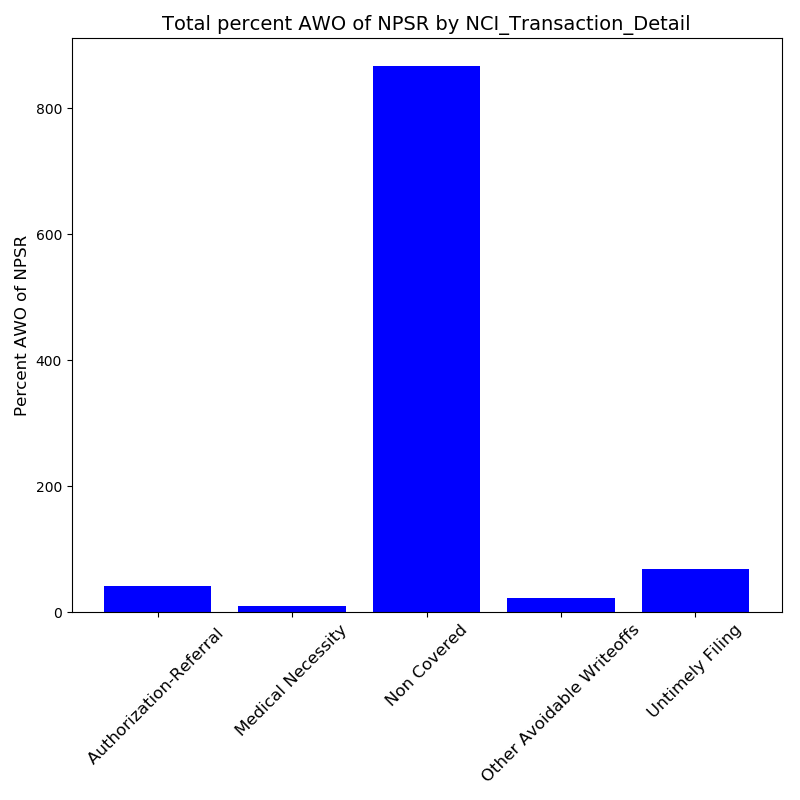
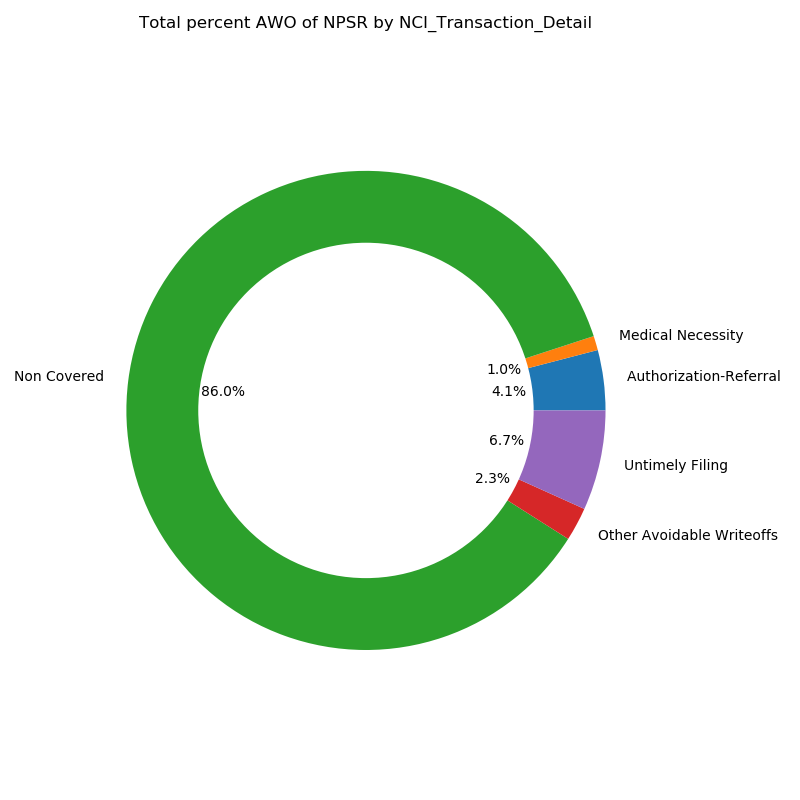
eda imgs

diff --git a/src/chris_eda.py b/src/chris_eda.py
@@ -21,8 +21,49 @@ def plot_agg_grouped(df, group_col, target_col, aggregate_func, y_label, title, 
         plt.show()
         plt.close()
 
-def plot_double_grouped():
-    pass
+def plot_agg_pie(df, group_col, target_col, aggregate_func, y_label, title, save_fig=None):
+    fig, ax = plt.subplots()
+    grouped = df.groupby(group_col).aggregate({target_col : aggregate_func})
+    x_range = list(range(0, grouped.shape[0]))
+    x_labels = grouped.index.tolist()
+    y_vals = grouped.values.reshape(1,-1)[0]
+    ax.pie(y_vals, radius=1, labels=x_labels, autopct='%1.1f%%')
+    center_circle = plt.Circle((0,0),0.70,fc='white')
+    fig = plt.gcf()
+    fig.gca().add_artist(center_circle)
+    ax.axis('equal')
+    ax.set_title(title)
+    plt.tight_layout()
+    if save_fig:
+        file_name = title.replace(' ', '_') + '.png'
+        plt.savefig(save_fig_path.format(file_name))
+    else:
+        plt.show()
+        plt.close()
+
+def pie_2(df, group_col, target_col, aggregate_func, y_label, title, save_fig=None):
+    grouped = df.groupby(group_col).aggregate({target_col : aggregate_func})
+    x_range = list(range(0, grouped.shape[0]))
+    x_labels = grouped.index.tolist()
+    y_vals = grouped.values.reshape(1,-1)[0]
+    fig, axs = plt.subplots(1,2, figsize=(9,5))
+    axs = axs.ravel()
+    for i in range(2):
+        axs[i].pie(y_vals, radius=1, labels=x_labels, autopct='%1.1f%%')
+        center_circle = plt.Circle((0,0),0.70,fc='white')
+        # fig = plt.gcf()
+        fig.gca().add_artist(center_circle)
+        # axs[i].add_artist(plt.Circle((0,0),0.70,fc='white'))
+        axs[i].axis('equal')
+        axs[i].set_title(title)
+        plt.tight_layout()
+    if save_fig:
+        file_name = title.replace(' ', '_') + '.png'
+        plt.savefig(save_fig_path.format(file_name))
+    else:
+        plt.show()
+        plt.close()
+
 
 if __name__=='__main__':
 
@@ -43,7 +84,23 @@ if __name__=='__main__':
 
     # df_full = pd.read_csv('../../navigant_data/final_df_cl_edit.csv')
 
-    # plot_agg_grouped(df, 'Service_Code', 'account_id.1', 'sum')
-    # plot_agg_grouped(df, 'NCI_Transaction_Detail', 'account_id.1', 'sum')
-    # plot_agg_grouped(df, 'Service_Code', 'target_percentage', 'sum', 'Percent AWO of NPSR', 'Total AWO/NPSR percent by Service Code')
-    plot_agg_grouped(df, 'NCI_Transaction_Detail', 'target_percentage', 'sum', 'Percent AWO of NPSR', 'Total percent AWO of NPSR by NCI_Transaction_Detail', save_fig=True)
+    plot_agg_pie(df, 'Service_Code', 'target_percentage', 'sum', 'Percent AWO of NPSR', 'Total percent AWO of NPSR by Service Code', save_fig=True)
+    plot_agg_pie(df, 'NCI_Transaction_Detail', 'target_percentage', 'sum', 'Percent AWO of NPSR', 'Total percent AWO of NPSR by NCI_Transaction_Detail', save_fig=True)
+
+    plot_agg_pie(loc_1, 'Service_Code', 'target_percentage', 'sum', 'Percent AWO of NPSR', 'Hospital 1: Total percent AWO of NPSR by Service Code', save_fig=True)
+    plot_agg_pie(loc_1, 'NCI_Transaction_Detail', 'target_percentage', 'sum', 'Percent AWO of NPSR', 'Hospital 1: Total percent AWO of NPSR by NCI_Transaction_Detail', save_fig=True)
+
+    plot_agg_pie(loc_2, 'Service_Code', 'target_percentage', 'sum', 'Percent AWO of NPSR', 'Hospital 2: Total percent AWO of NPSR by Service Code', save_fig=True)
+    plot_agg_pie(loc_2, 'NCI_Transaction_Detail', 'target_percentage', 'sum', 'Percent AWO of NPSR', 'Hospital 2: Total percent AWO of NPSR by NCI_Transaction_Detail', save_fig=True)
+
+    plot_agg_pie(loc_3, 'Service_Code', 'target_percentage', 'sum', 'Percent AWO of NPSR', 'Hospital 3: Total percent AWO of NPSR by Service Code', save_fig=True)
+    plot_agg_pie(loc_3, 'NCI_Transaction_Detail', 'target_percentage', 'sum', 'Percent AWO of NPSR', 'Hospital 3: Total percent AWO of NPSR by NCI_Transaction_Detail', save_fig=True)
+
+    plot_agg_pie(loc_4, 'Service_Code', 'target_percentage', 'sum', 'Percent AWO of NPSR', 'Hospital 4: Total percent AWO of NPSR by Service Code', save_fig=True)
+    plot_agg_pie(loc_4, 'NCI_Transaction_Detail', 'target_percentage', 'sum', 'Percent AWO of NPSR', 'Hospital 4: Total percent AWO of NPSR by NCI_Transaction_Detail', save_fig=True)
+
+    plot_agg_pie(loc_5, 'Service_Code', 'target_percentage', 'sum', 'Percent AWO of NPSR', 'Hospital 5: Total percent AWO of NPSR by Service Code', save_fig=True)
+    plot_agg_pie(loc_5, 'NCI_Transaction_Detail', 'target_percentage', 'sum', 'Percent AWO of NPSR', 'Hospital 5: Total percent AWO of NPSR by NCI_Transaction_Detail', save_fig=True)
+
+    plot_agg_pie(loc_6, 'Service_Code', 'target_percentage', 'sum', 'Percent AWO of NPSR', 'Hospital 6: Total percent AWO of NPSR by Service Code', save_fig=True)
+    plot_agg_pie(loc_6, 'NCI_Transaction_Detail', 'target_percentage', 'sum', 'Percent AWO of NPSR', 'Hospital 6: Total percent AWO of NPSR by NCI_Transaction_Detail', save_fig=True)

diff --git a/src/unsupervised.py b/src/unsupervised.py
@@ -227,14 +227,21 @@ if __name__=="__main__":
     df_all_y = df_full[targets]
 
     df_short = df_X.iloc[:100]
+
+    scaler = preprocessing.StandardScaler() #always scale values for PCA
+    X_scaled = scaler.fit_transform(df_short)
+    pca_model = decomposition.PCA()
+    X_pca = pca_model.fit(X_scaled)
+
+
     # figure, ax = plt.subplots()
     # pca_mod = PCAModel(df_X.values)
     # pca_mod.make_pca_model(n_components=15)
     # pca_mod.scree_plot(ax, n_components_to_plot=15)
 
-    km = KMeansModel(df_X.values)
+    # km = KMeansModel(df_X.values)
     # km.fit()
-    km.elbow_plot(max_clust=5)
+    # km.elbow_plot(max_clust=5)
     # km.silhouette_plot(max_clust=5)
 
     # vif(x_vals)

diff --git a/goals.md b/goals.md
@@ -71,7 +71,6 @@
   -Last_Payment_Amount
   -Length_of_Stay
   -Primary_Service_Name
-  -Region
   -NPSR
 
   columns to remain not dummied:
